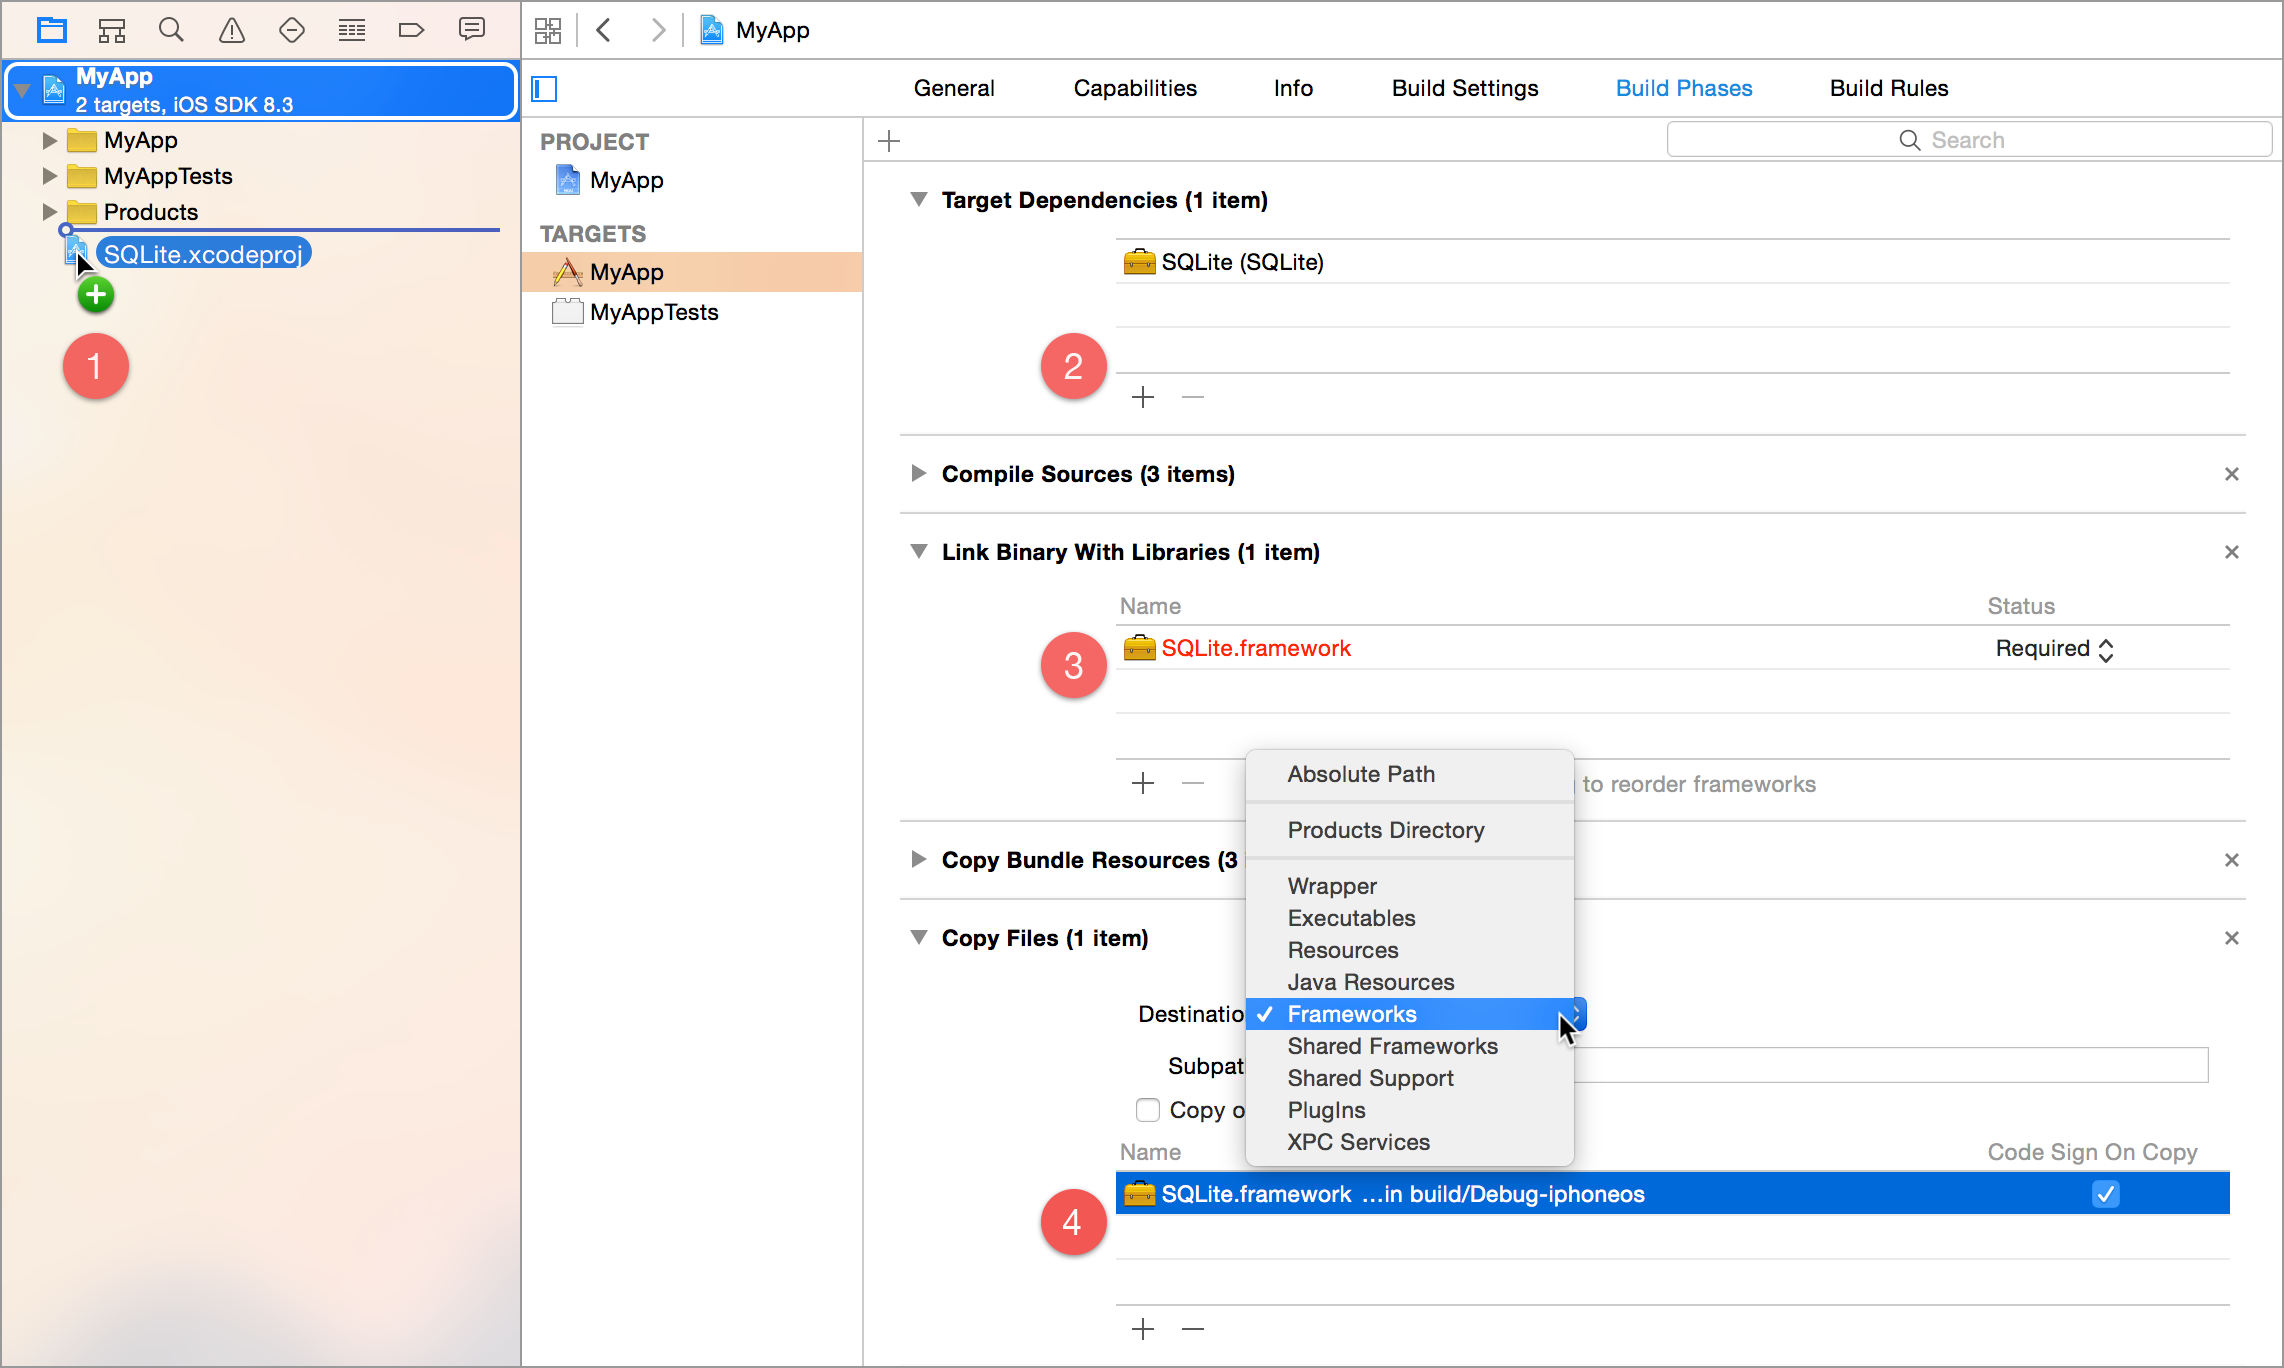
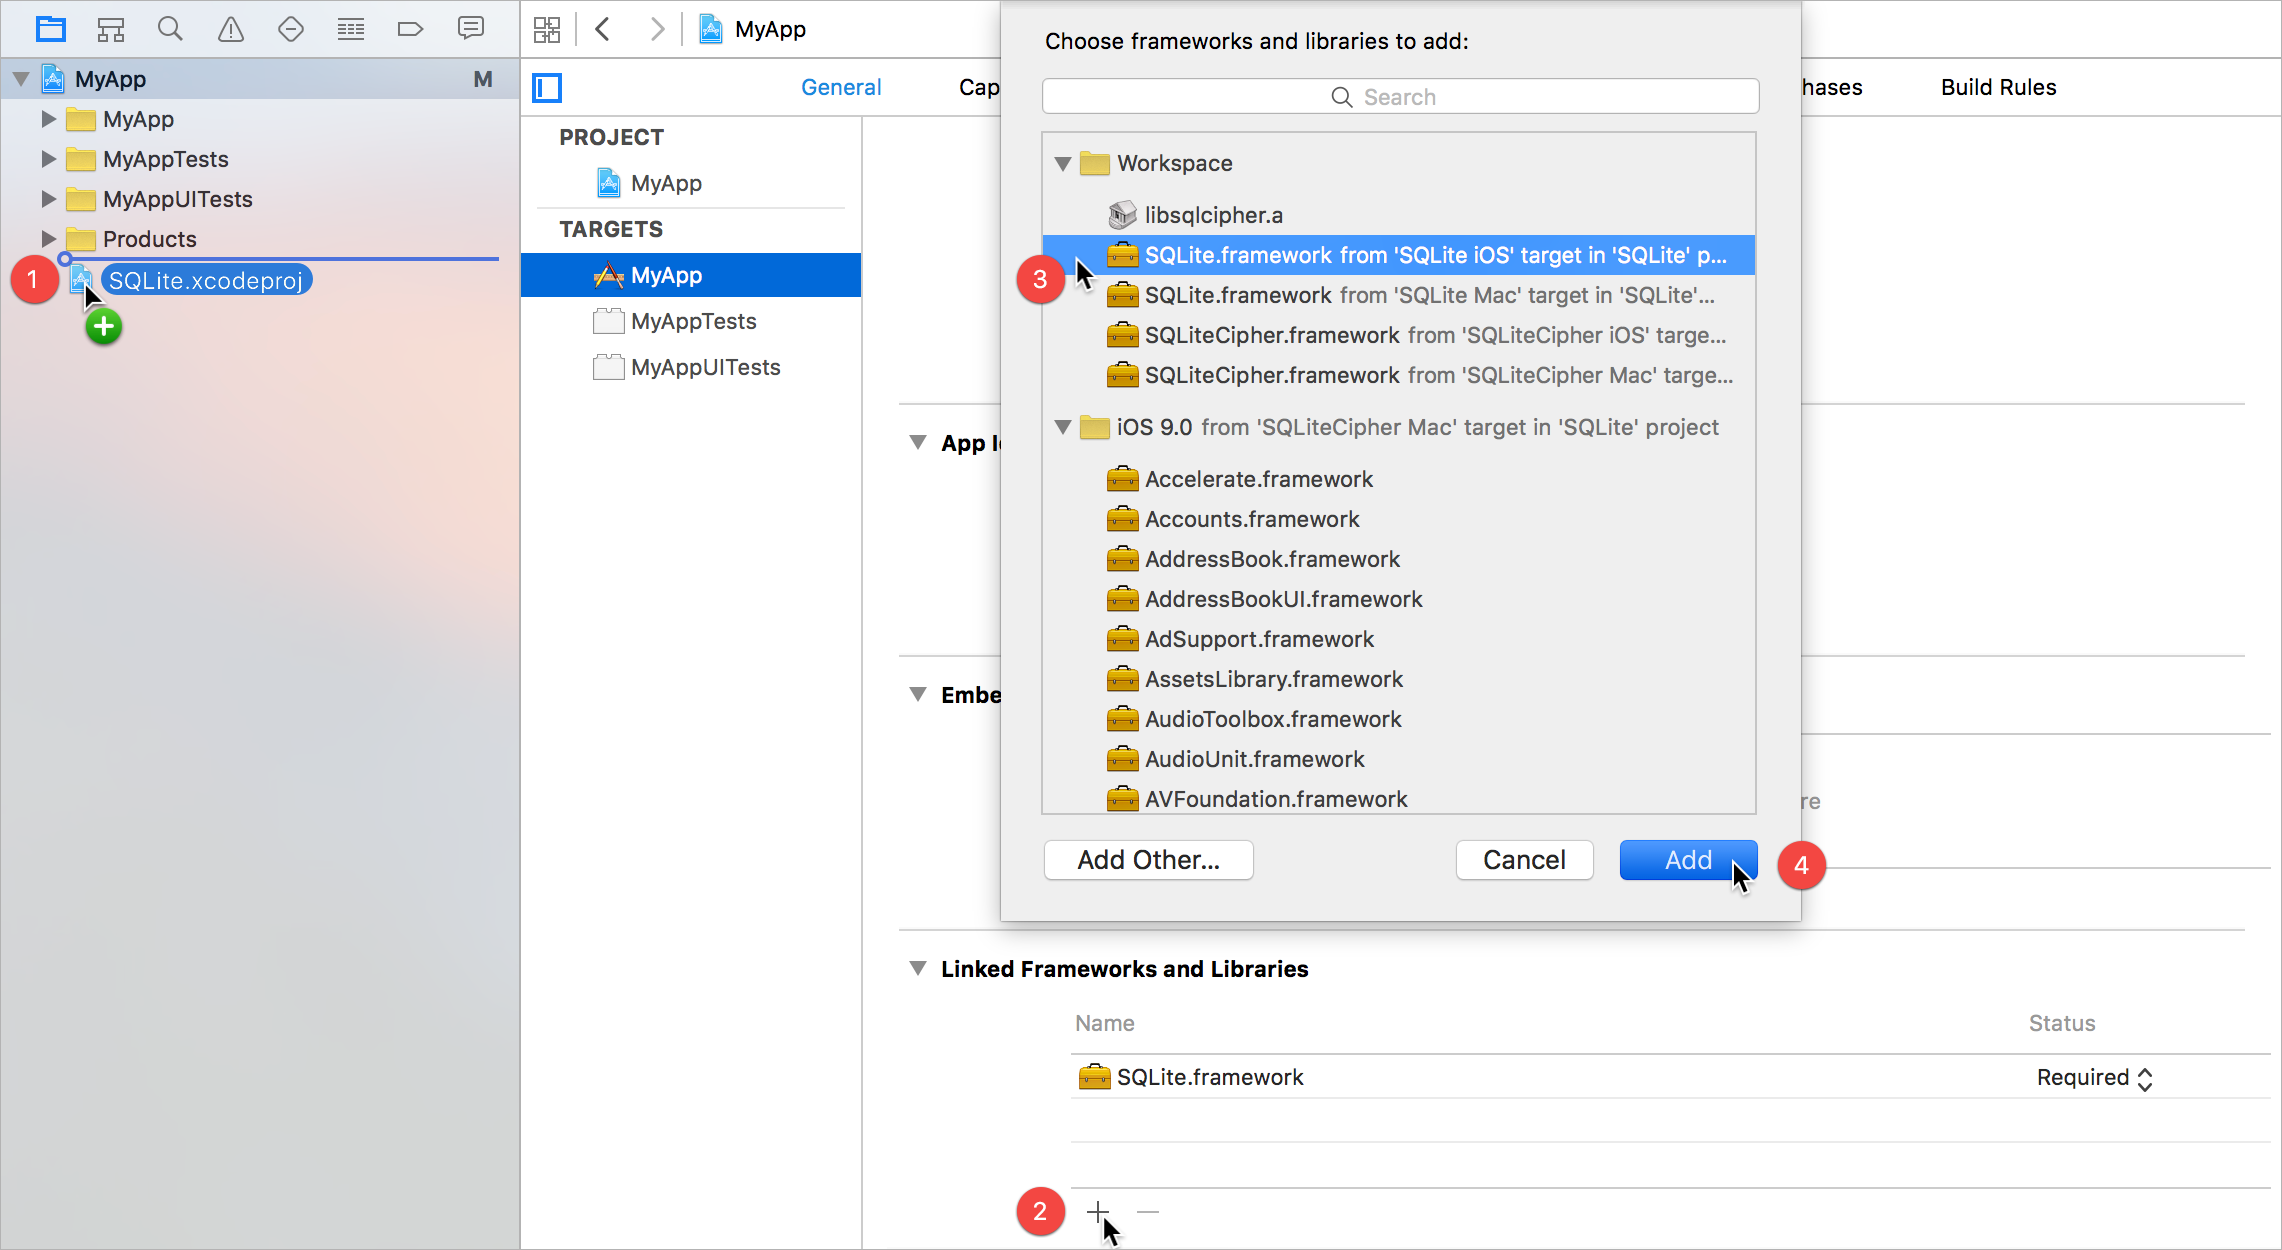
Update Installation Instructions
We need a new screen shot, and with it we can bring a simpler set of
instructions to the table.

diff --git a/Documentation/Index.md b/Documentation/Index.md
@@ -99,13 +99,13 @@ To install SQLite.swift as an Xcode sub-project:
 
  1. Drag the **SQLite.xcodeproj** file into your own project. ([Submodule](http://git-scm.com/book/en/Git-Tools-Submodules), clone, or [download](https://github.com/stephencelis/SQLite.swift/archive/master.zip) the project first.)
 
-    ![Installation](Resources/installation@2x.png)
+    ![Installation Screen Shot](Documentation/Resources/installation@2x.png)
 
- 2. In your target’s **Build Phases**, add **SQLite** to the **Target Dependencies** build phase.
+ 2. In your target’s **General** tab, click the **+** button under **Linked Frameworks and Libraries**.
 
- 3. Add **SQLite.framework** to the **Link Binary With Libraries** build phase.
+ 3. Select the appropriate **SQLite.framework** for your platform.
 
- 4. Add **SQLite.framework** to a **Copy Files** build phase with a **Frameworks** destination. (Add a new build phase if need be.)
+ 4. **Add**.
 
 You should now be able to `import SQLite` from any of your target’s source files and begin using SQLite.swift.
 

diff --git a/README.md b/README.md
@@ -168,16 +168,14 @@ To install SQLite.swift as an Xcode sub-project:
  1. Drag the **SQLite.xcodeproj** file into your own project.
     ([Submodule][], clone, or [download][] the project first.)
 
-    ![](Documentation/Resources/installation@2x.png)
+    ![Installation Screen Shot](Documentation/Resources/installation@2x.png)
 
- 2. In your target’s **Build Phases**, add **SQLite** to the **Target
-    Dependencies** build phase.
+ 2. In your target’s **General** tab, click the **+** button under **Linked
+    Frameworks and Libraries**.
 
- 3. Add **SQLite.framework** to the **Link Binary With Libraries** build
-    phase.
+ 3. Select the appropriate **SQLite.framework** for your platform.
 
- 4. Add **SQLite.framework** to a **Copy Files** build phase with a
-    **Frameworks** destination. (Add a new build phase if need be.)
+ 4. **Add**.
 
 [Frameworkless Targets]: Documentation/Index.md#frameworkless-targets
 [Xcode]: https://developer.apple.com/xcode/downloads/
